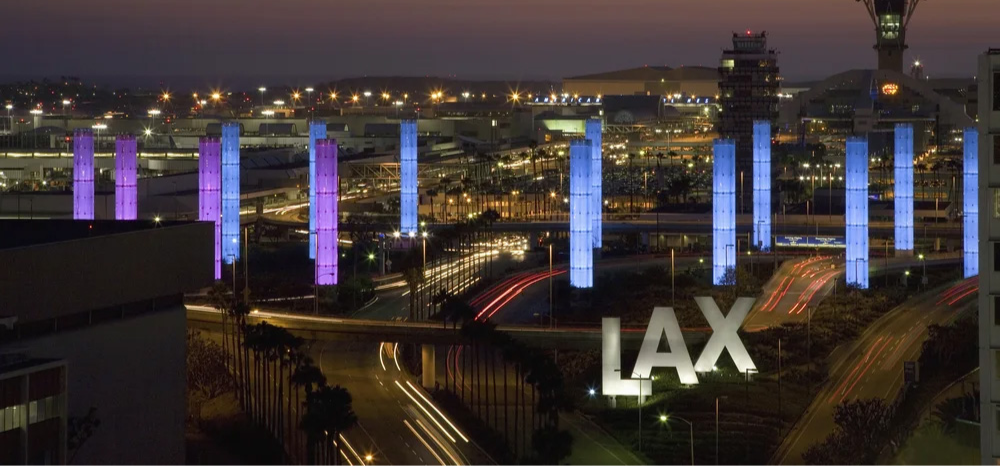
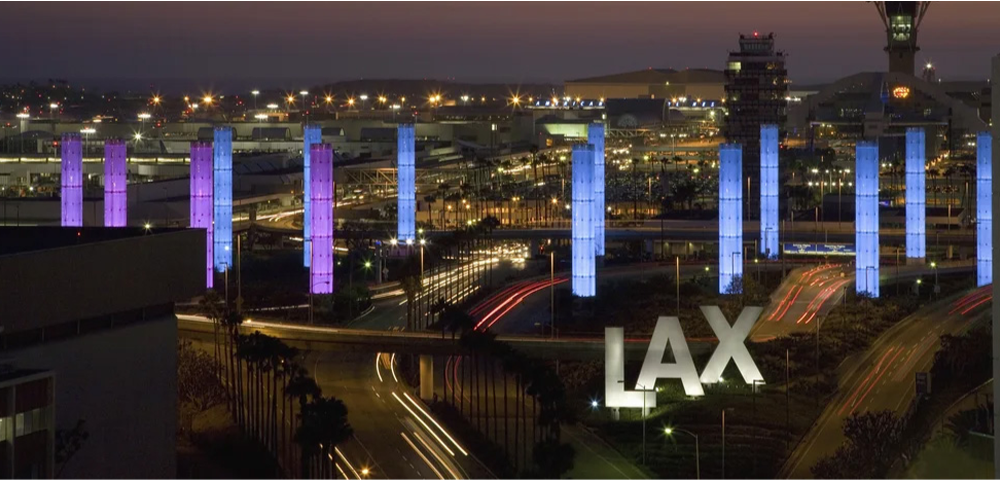
text overlay, prep for slides

diff --git a/src/components/currentprojects.tsx b/src/components/currentprojects.tsx
@@ -4,6 +4,8 @@ import { Navigation, Autoplay } from "swiper/modules";
 import "swiper/css";
 import "swiper/css/navigation";
 
+//refractor tomorrow for const slides instead of images with description and button
+
 export default function CurrentProjects() {
     const images = [
         "/projectsLAX.png",
@@ -12,21 +14,25 @@ export default function CurrentProjects() {
     ];
     return (
 <section className="flex justify-center items-center border-y border-gray-200 p-5 md:p-20">
+
     {/*replace h2 with slider and check if border displays bottom after next section is added*/}
      <Swiper
             modules={[Navigation, Autoplay]}
             navigation
             autoplay={{ delay: 4000, disableOnInteraction: false }}
             loop
-            className="w-[1420px] h-[300px] md:h-[680px]"
+            className="w-[1420px]  aspect-[1420/680]"
           >
             {images.map((src, i) => (
               <SwiperSlide key={i}>
+                <div className="relative w-full h-full">
                 <img
                   src={src}
                   alt={`Slide ${i + 1}`}
                   className="w-full h-full object-cover transition duration-1500 ease-out"
-                />
+                /><div className="absolute flex items-center justify-center inset-0"><h1> Hello!</h1>
+                </div>
+                </div>
               </SwiperSlide>
             ))}
           </Swiper> 
